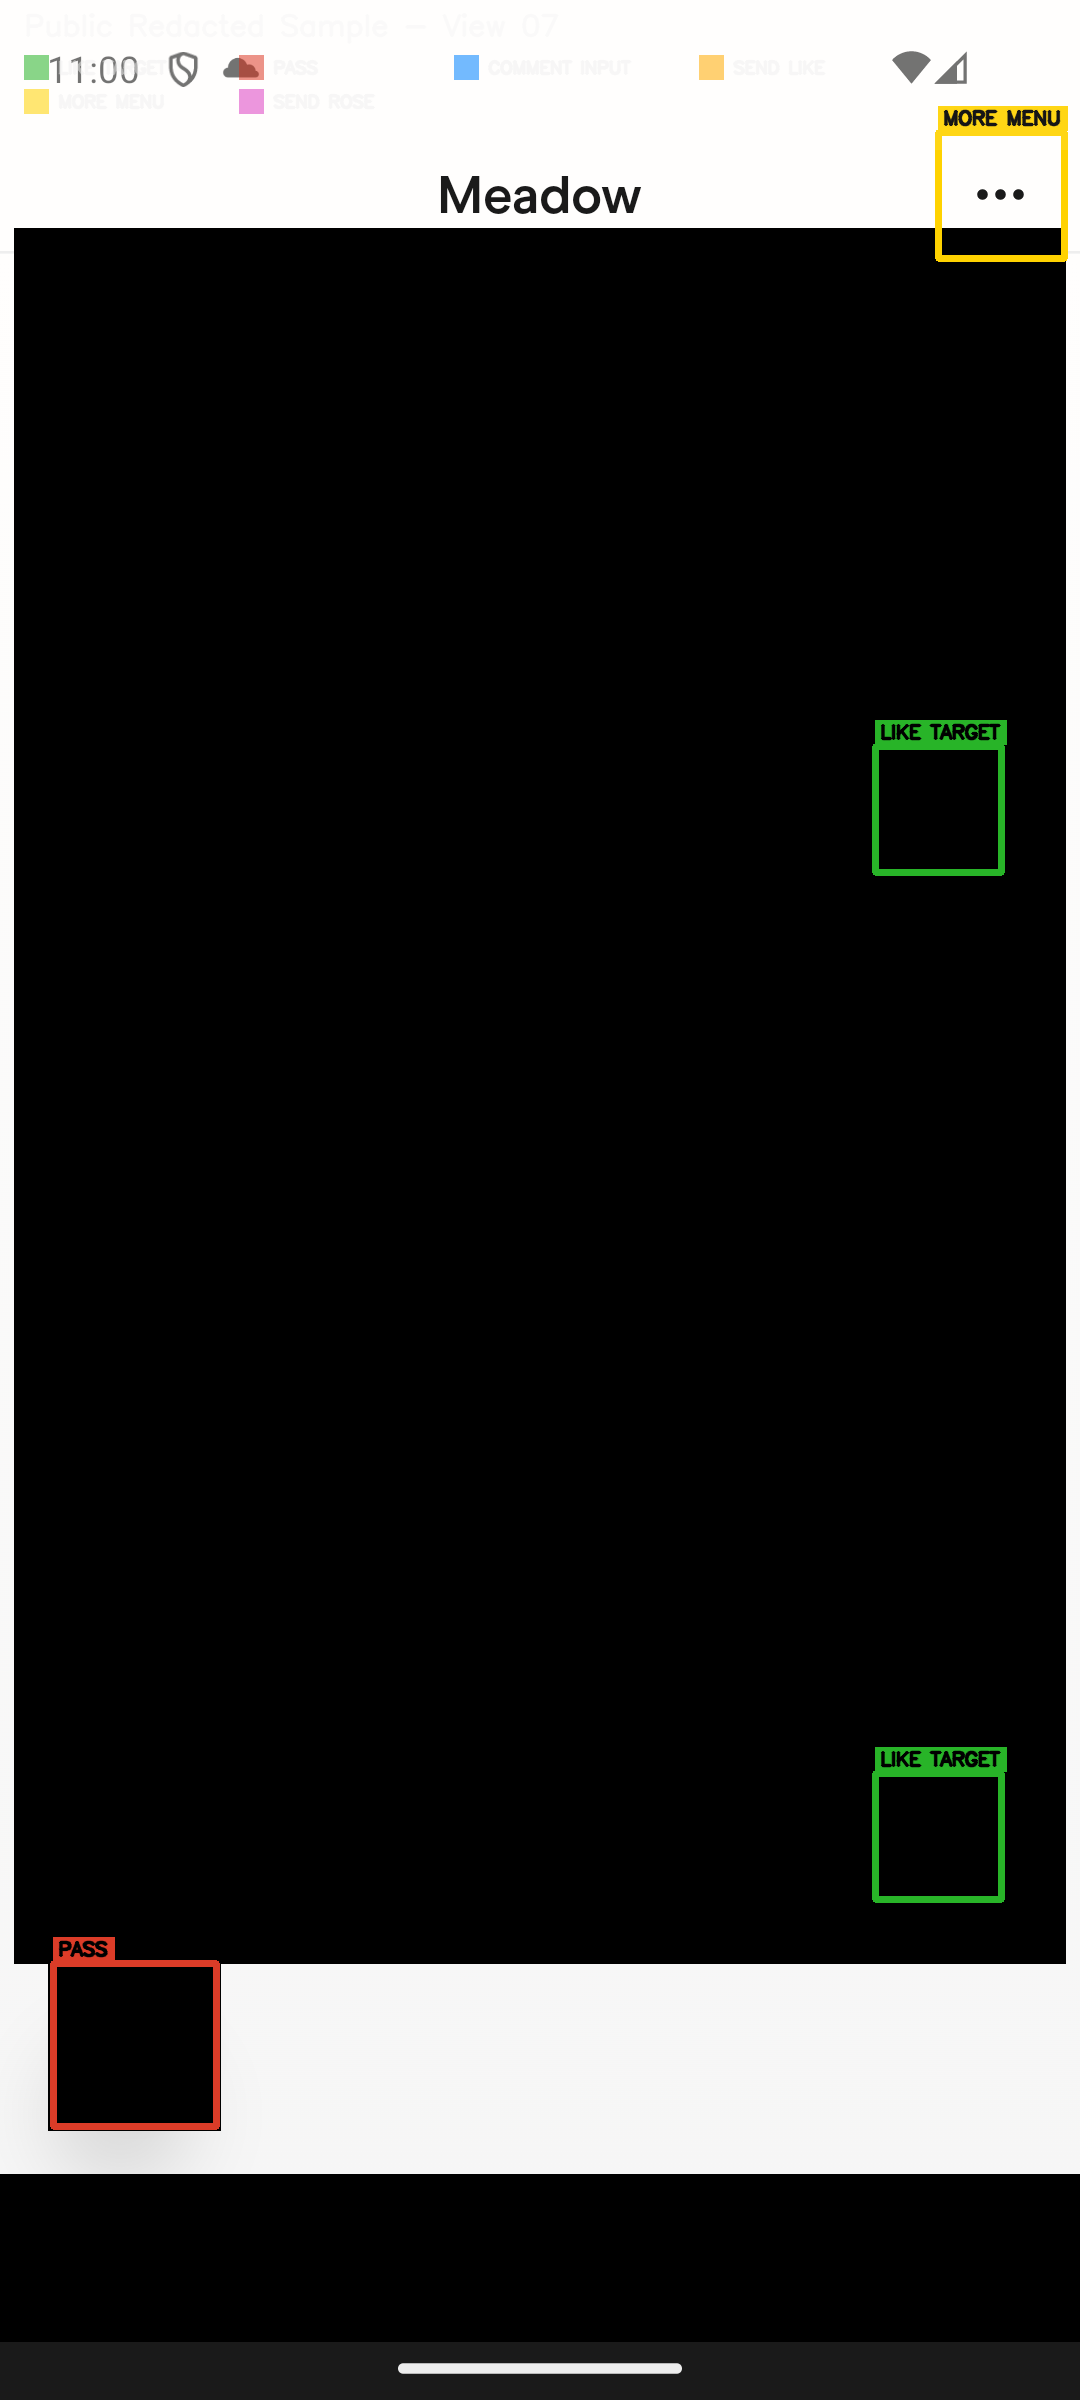
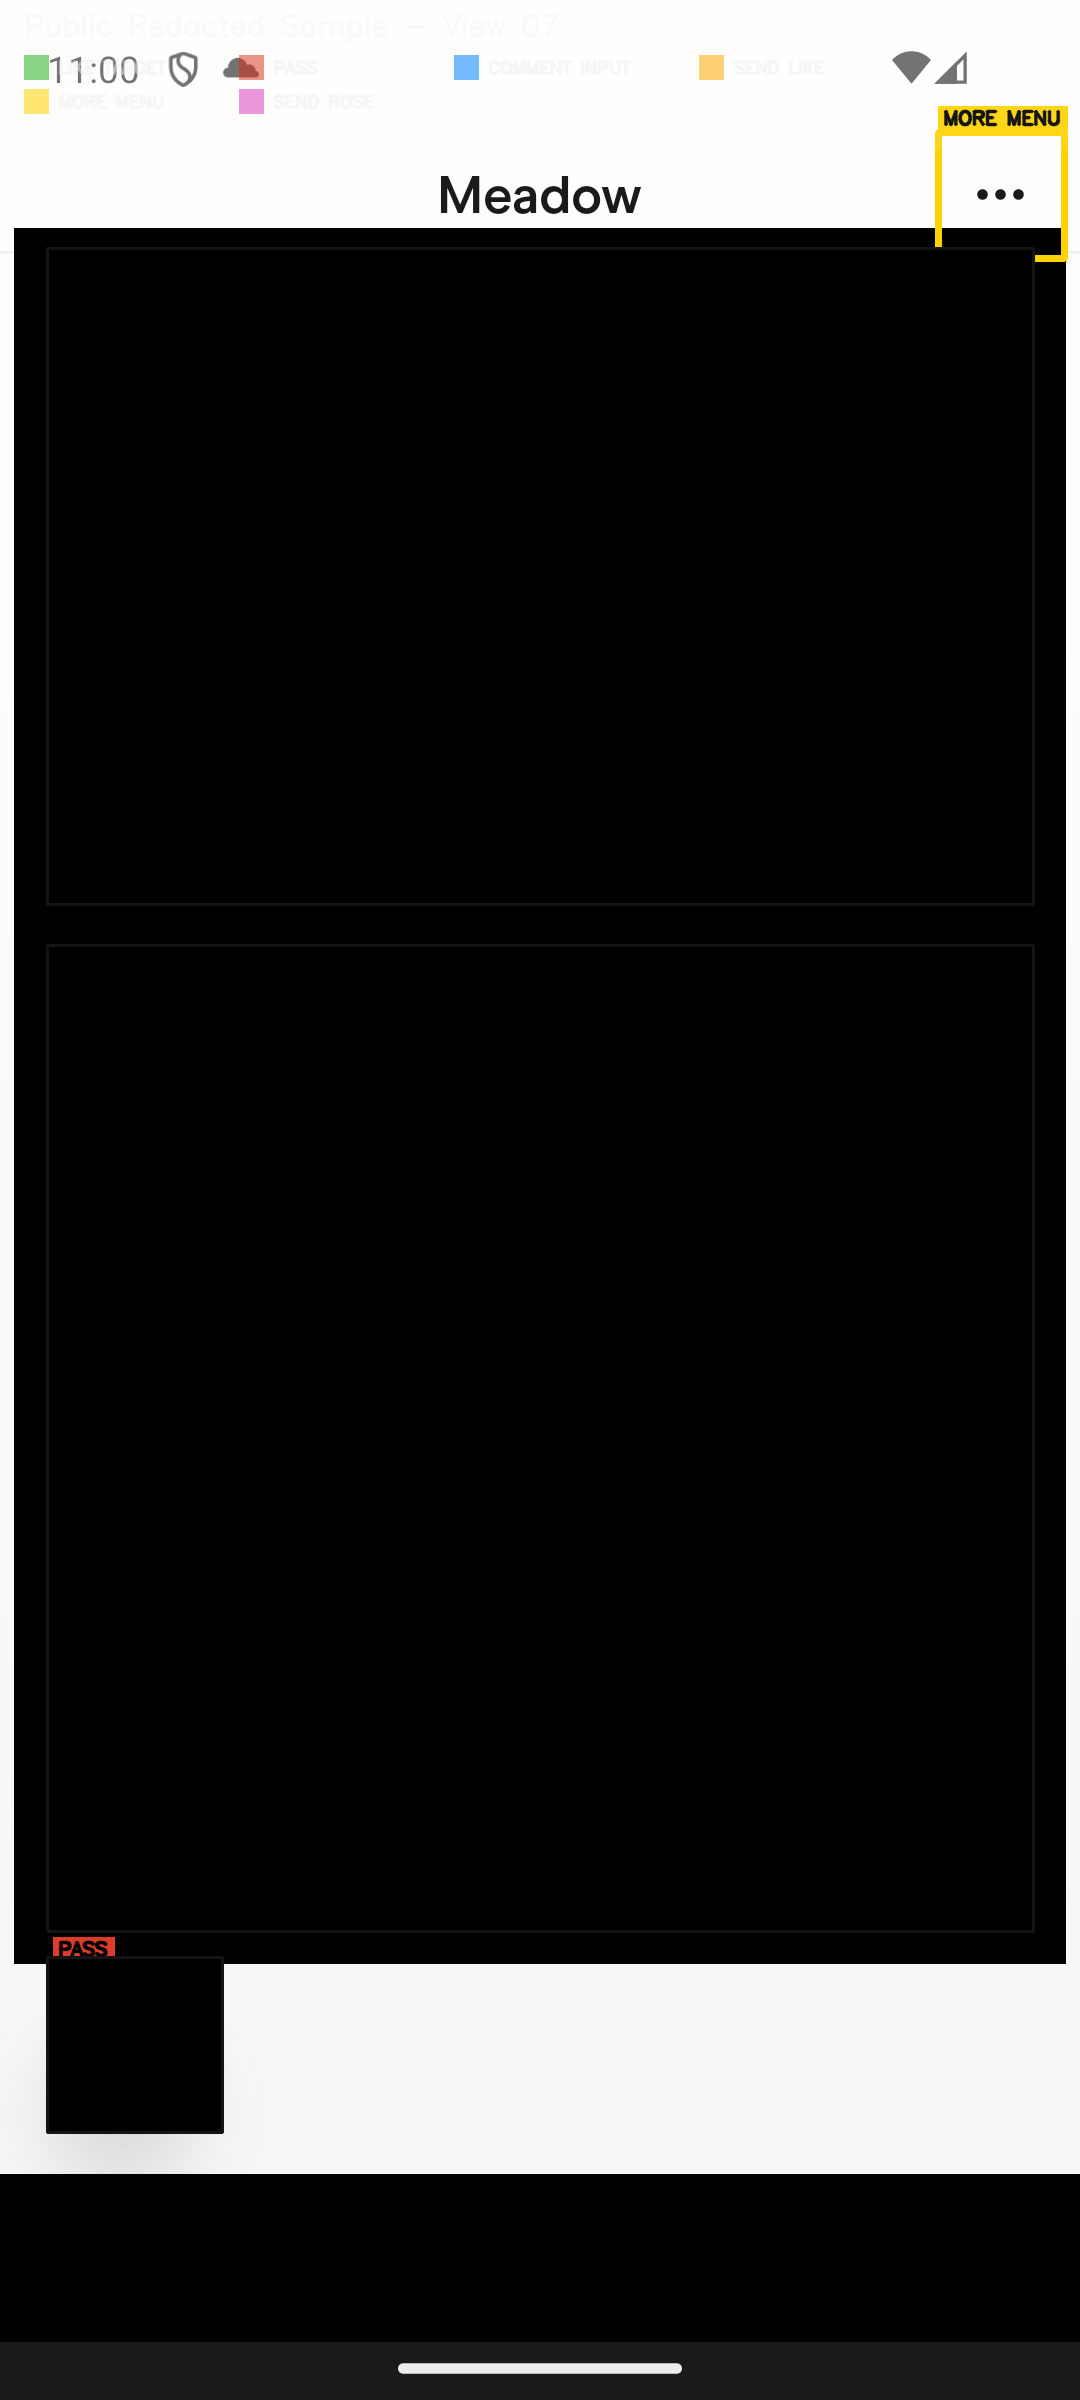
docs: simplify public walkthrough and resize samples

Changed region(s): [[0.0306, 0.8125, 0.2139, 0.9062], [0.7944, 0.2812, 0.9472, 0.375], [0.7944, 0.7188, 0.9472, 0.8125]]

diff --git a/README.md b/README.md
@@ -12,37 +12,30 @@ Legacy Playwright/browser automation and legacy context/persona microservices we
 
 ## Public Redacted Walkthrough
 
-This is a public-safe snapshot of the Hinge control approach used in this repo:
+This section shows the idea in plain terms.
 
-- blacked-out regions: face/profile and personal text details
-- colored boxes: machine-extracted action targets the agent can execute (`like_button`, `pass_button`, `comment_input`, `send_like`, `more_menu`, `send_rose`)
-- labels on each box: explicit affordance IDs used to make decisions executable
+Each sample keeps the app layout visible so you can understand what the agent sees, while private details are blacked out. The colored boxes show the tap targets the agent can use for its next step.
 
-High-level flow:
+What this demonstrates:
 
-1. Observe: capture screenshot + UI XML and extract interaction targets.
-2. Decide: choose `{action, target_id}` from available targets.
-3. Act: tap the selected target and validate post-action state.
+1. The system reads the current screen.
+2. It identifies clear next choices (like, pass, comment, send, menu).
+3. It picks one choice and executes it on the same screen.
 
-Sample A: composer + pass/menu controls with extracted targets.
+<p>
+  <img src="docs/public_examples/hinge_public_sample_view_01.png" alt="Public redacted sample A" width="320">
+</p>
+<p><em>Sample A: message area and core controls are still visible, with personal details redacted.</em></p>
 
-![Public redacted sample view 01](docs/public_examples/hinge_public_sample_view_01.png)
+<p>
+  <img src="docs/public_examples/hinge_public_sample_view_04.png" alt="Public redacted sample B" width="320">
+</p>
+<p><em>Sample B: multiple selectable targets on one profile view.</em></p>
 
-Sample B: multiple Discover `like_button` targets on the same profile surface.
-
-![Public redacted sample view 04](docs/public_examples/hinge_public_sample_view_04.png)
-
-Sample C: repeated media-like affordances; target IDs keep actions deterministic.
-
-![Public redacted sample view 07](docs/public_examples/hinge_public_sample_view_07.png)
-
-To generate the full interactive public-redacted viewer from any bundle:
-
-```bash
-python scripts/redact-hinge-bundle-viewer.py --bundle-dir <bundle_dir> --mode selective
-```
-
-This writes `<bundle_dir>/public_redacted_selective/bundle_viewer.html`.
+<p>
+  <img src="docs/public_examples/hinge_public_sample_view_07.png" alt="Public redacted sample C" width="320">
+</p>
+<p><em>Sample C: repeated profile actions across deeper scroll positions.</em></p>
 
 ## Architecture
 
